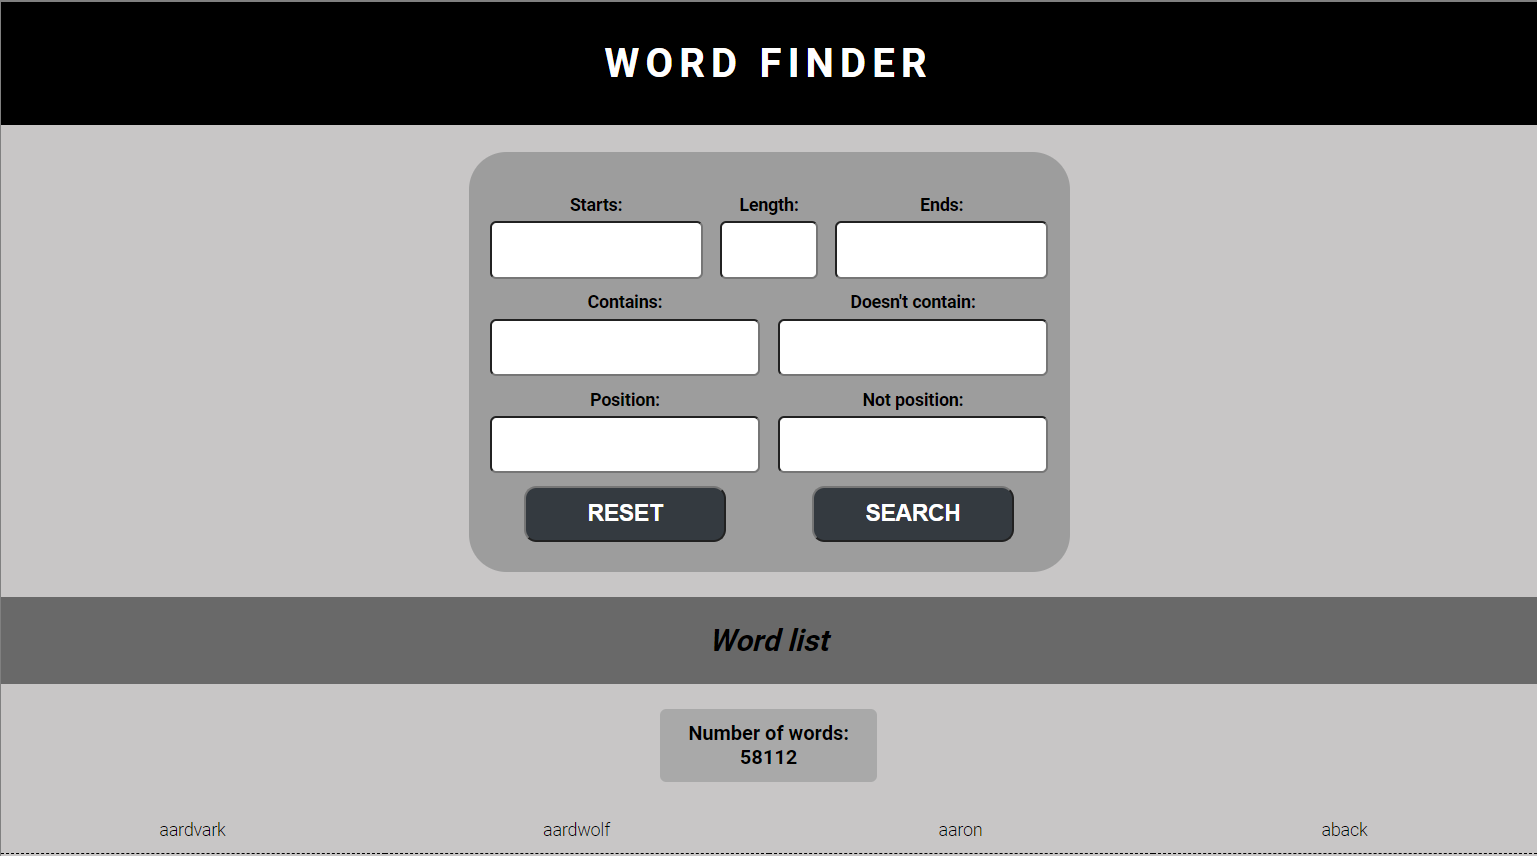
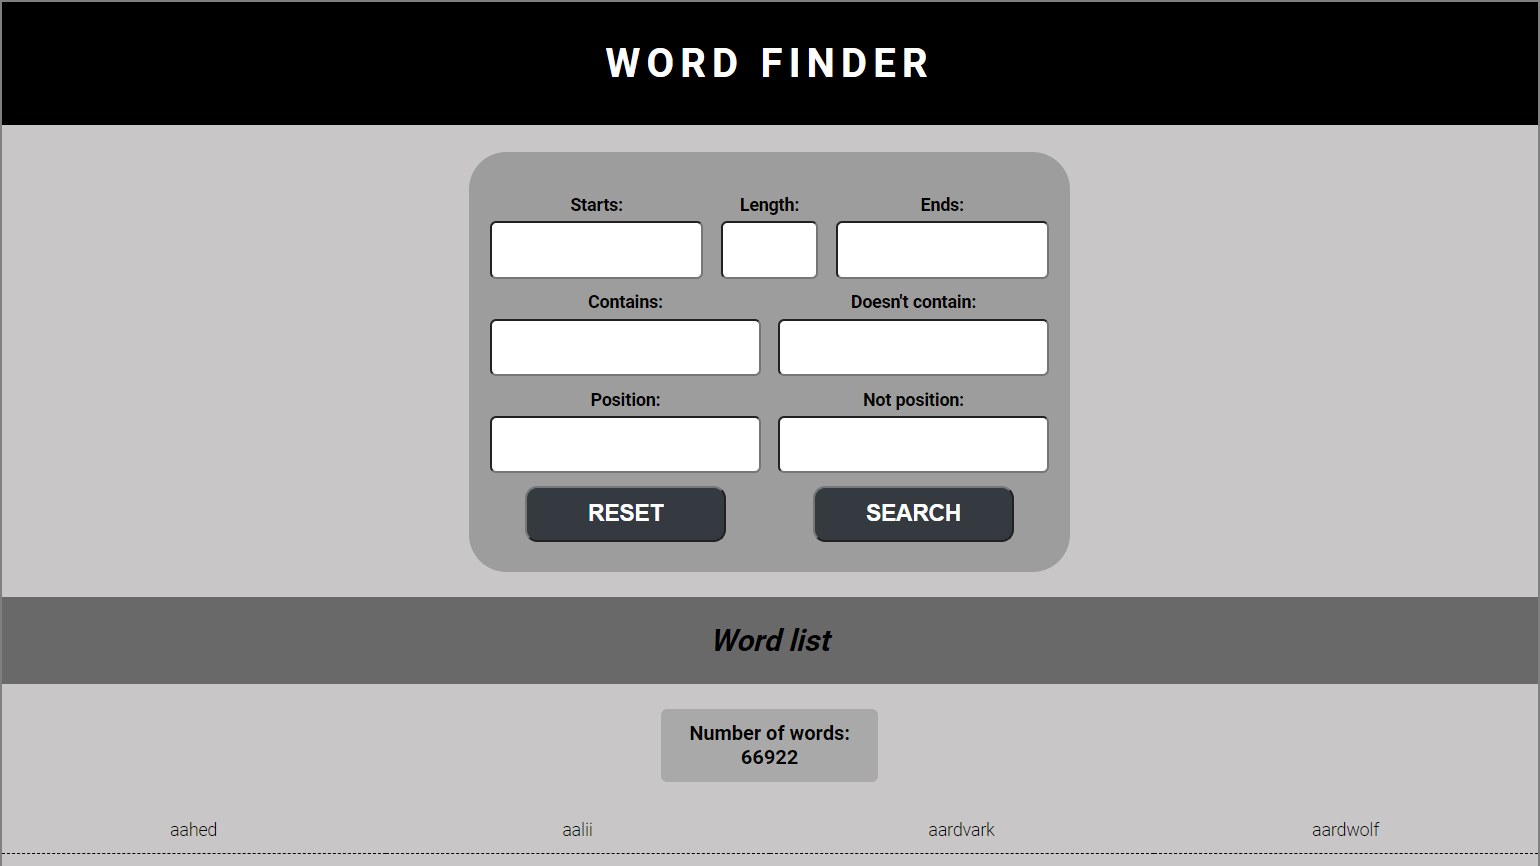
Update description

diff --git a/README.md b/README.md
@@ -13,4 +13,4 @@ npm start
 ```
 
 Access the website at http://localhost:3000/ in the browser.
-Now search for the word among the approximately 60 000 words in the database!
+Now search for the word among approximately 70 000 words in the database!
